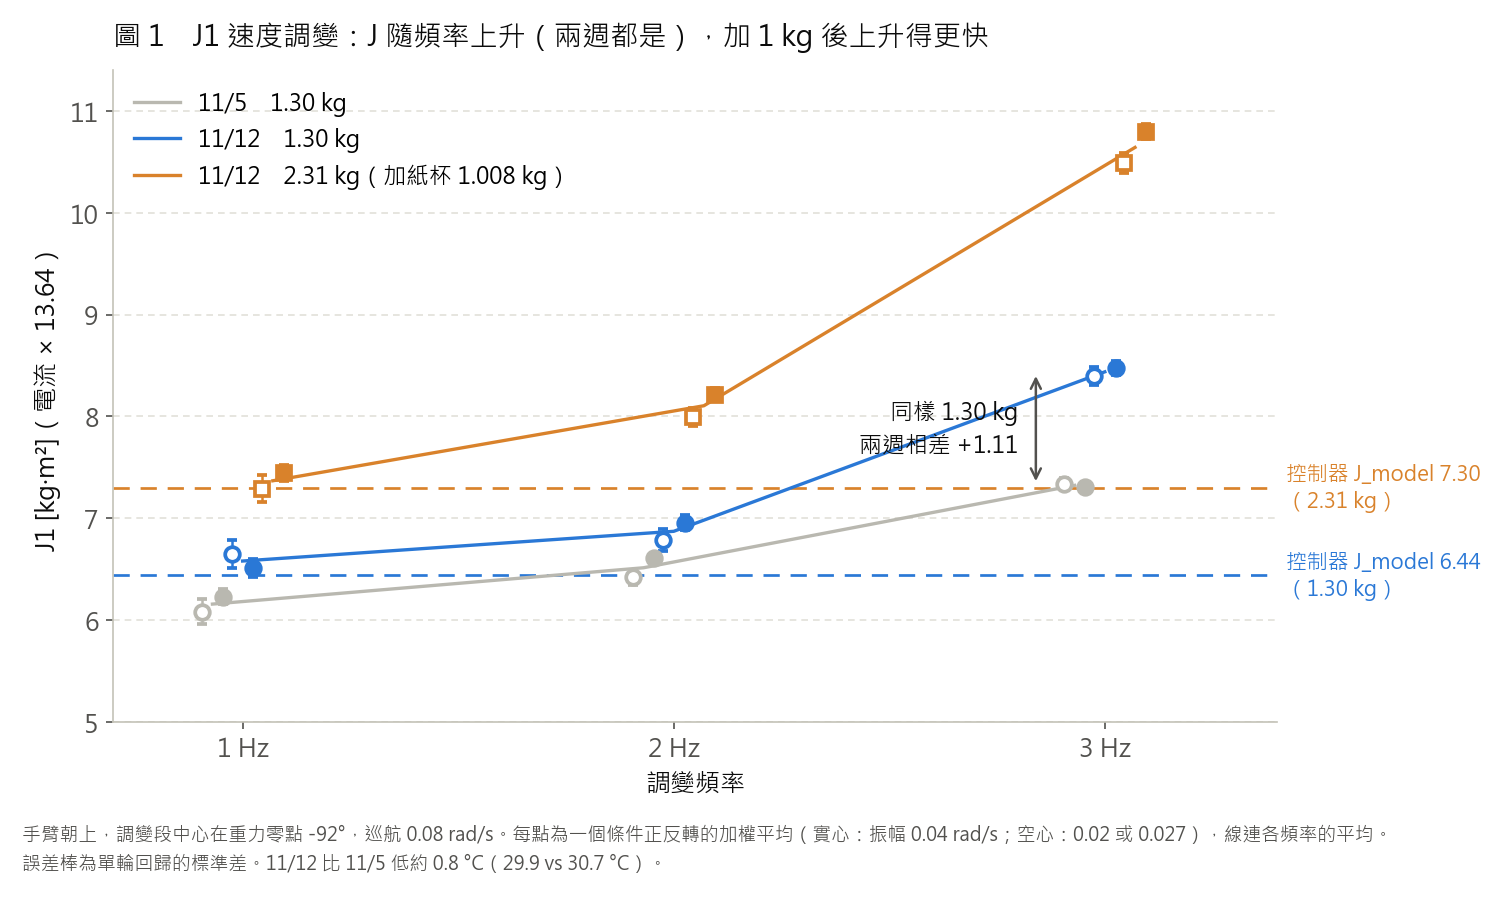
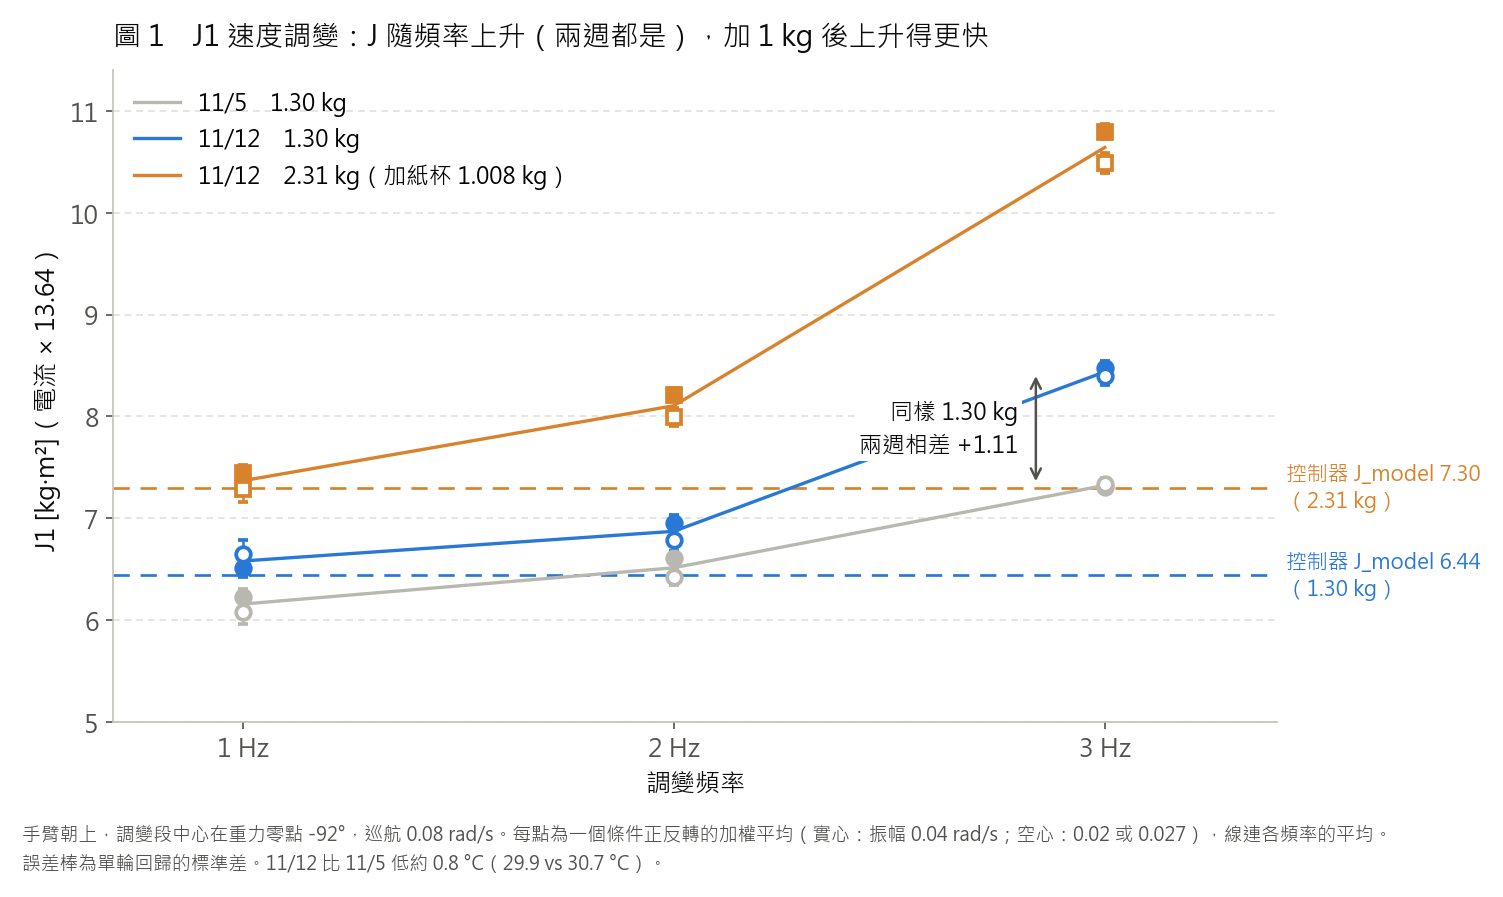
11/18 report figs 1-2: put same-frequency points on the same x (no dodge)

diff --git a/analysis/1112/report_figs_1118.py b/analysis/1112/report_figs_1118.py
@@ -62,12 +62,11 @@ for k, (run, col, lab, mk) in enumerate(runs):
     pts = [cond_mean(run, ci) for ci in range(6)]
     xs = []
     for J, s, f, A in pts:
-        dx = (k - 1) * 0.07 + (0.025 if A >= 0.04 else -0.025)   # 同頻率兩種振幅左右錯開
-        ax.errorbar(f + dx, J, yerr=s, fmt=mk, ms=7, color=col, mfc=col if A >= 0.04 else "white", mec=col,
+        ax.errorbar(f, J, yerr=s, fmt=mk, ms=7, color=col, mfc=col if A >= 0.04 else "white", mec=col,
                     mew=1.8, ecolor=col, elinewidth=1.2, capsize=2.5, zorder=4)
     fm = [np.mean([J for J, s, f, A in pts if abs(f - ff) < 0.2]) for ff in (1, 2, 3)]
     fmean[run] = fm
-    ax.plot(np.array([1, 2, 3]) + (k - 1) * 0.07, fm, color=col, lw=1.6, zorder=3, label=lab)
+    ax.plot([1, 2, 3], fm, color=col, lw=1.6, zorder=3, label=lab)
 jm130 = np.mean([J1["velmod_1112_p130_pos"]["per"][str(c)]["Jm"] for c in range(6)])
 jm231 = np.mean([J1["velmod_1112_p231_pos"]["per"][str(c)]["Jm"] for c in range(6)])
 for jm, col, txt in ((jm130, BLUE, "1.30 kg"), (jm231, ORANGE, "2.31 kg")):
@@ -77,7 +76,7 @@ for jm, col, txt in ((jm130, BLUE, "1.30 kg"), (jm231, ORANGE, "2.31 kg")):
 g0, g1 = fmean["1105_p130"][2], fmean["1112_p130"][2]
 ax.annotate("", xy=(2.84, g1), xytext=(2.84, g0), arrowprops=dict(arrowstyle="<->", color=INK2, lw=1.2))
 ax.text(2.80, 0.5 * (g0 + g1), f"同樣 1.30 kg\n兩週相差 {g1 - g0:+.2f}", ha="right", va="center", fontsize=11,
-        color=INK, linespacing=1.4)
+        color=INK, linespacing=1.4, bbox=dict(boxstyle="square,pad=0.15", fc="white", ec="none"), zorder=6)
 ax.legend(loc="upper left", frameon=False, fontsize=11)
 ax.set_xticks([1, 2, 3]); ax.set_xticklabels(["1 Hz", "2 Hz", "3 Hz"])
 ax.set_xlim(0.7, 3.4); ax.set_ylim(5.0, 11.4)
@@ -107,7 +106,7 @@ dj1 = J1B["dJ"]
 for lab, (m, s, jm) in dj1.items():
     f = float(lab.split()[0]); A = float(lab.split("×")[1])
     big = A >= 0.04
-    ax.errorbar(f + (0.05 if big else -0.05), m, yerr=s, fmt="o", ms=7, color=BLUE, mfc=BLUE if big else "white",
+    ax.errorbar(f, m, yerr=s, fmt="o", ms=7, color=BLUE, mfc=BLUE if big else "white",
                 mec=BLUE, mew=1.8, ecolor=BLUE, elinewidth=1.2, capsize=2.5, zorder=4)
 ff = np.linspace(0.5, 3.3, 60)
 ax.plot(ff, [dj_spring(x) for x in ff], color=INK, lw=1.4, ls=(0, (2, 2)), zorder=3)
@@ -127,7 +126,7 @@ for r in J2C["rows"]:
     w = [1 / s ** 2 for s in r["sdJ"]]
     m = sum(d * wi for d, wi in zip(r["dJ"], w)) / sum(w); s = 1 / math.sqrt(sum(w))
     big = r["A"] >= 0.05
-    ax.errorbar(r["f"] + (0.05 if big else -0.05), m, yerr=s, fmt="o", ms=7, color=GREEN,
+    ax.errorbar(r["f"], m, yerr=s, fmt="o", ms=7, color=GREEN,
                 mfc=GREEN if big else "white", mec=GREEN, mew=1.8, ecolor=GREEN, elinewidth=1.2, capsize=2.5,
                 zorder=4)
 jmd2 = float(np.mean([r["dJm"] for r in J2C["rows"]]))
